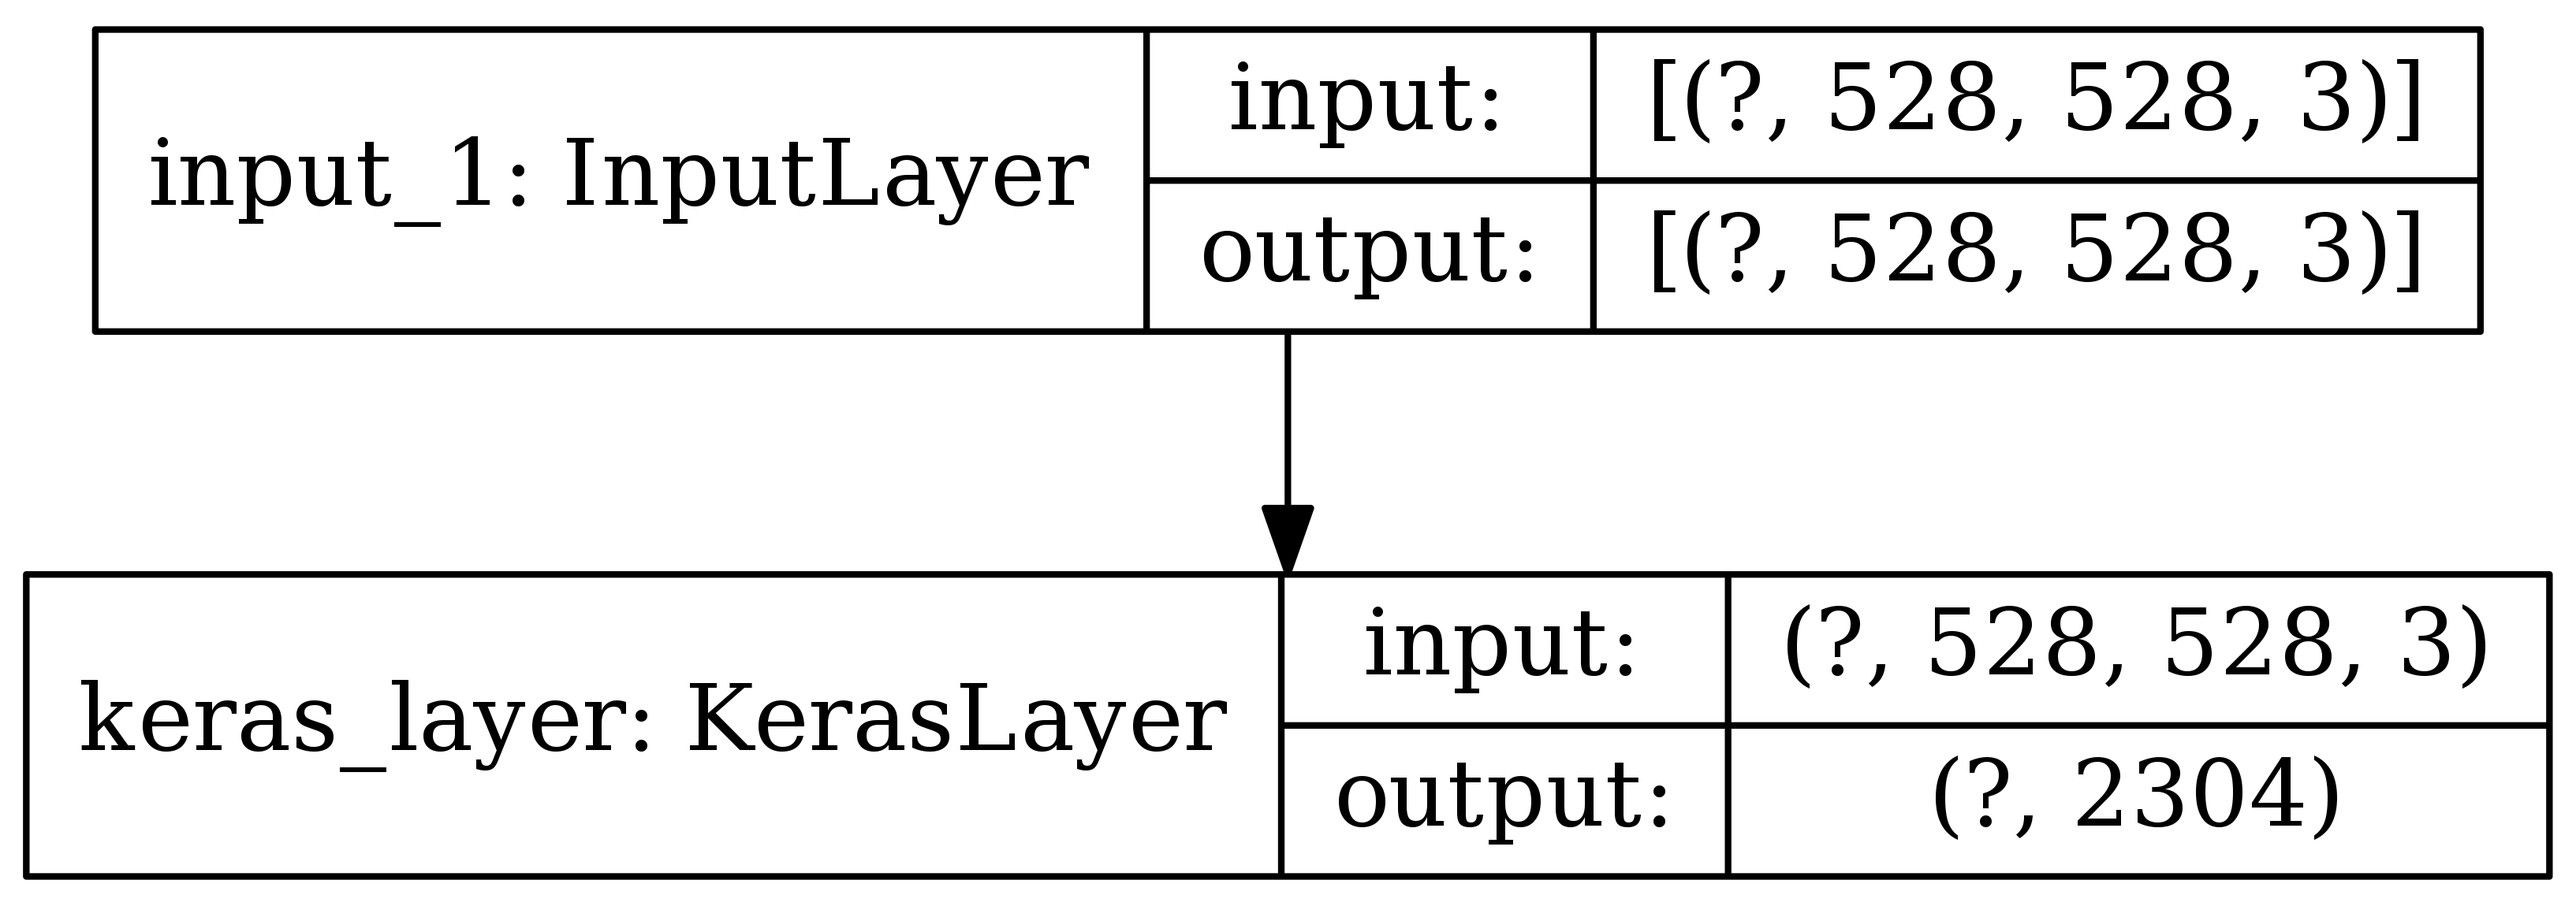
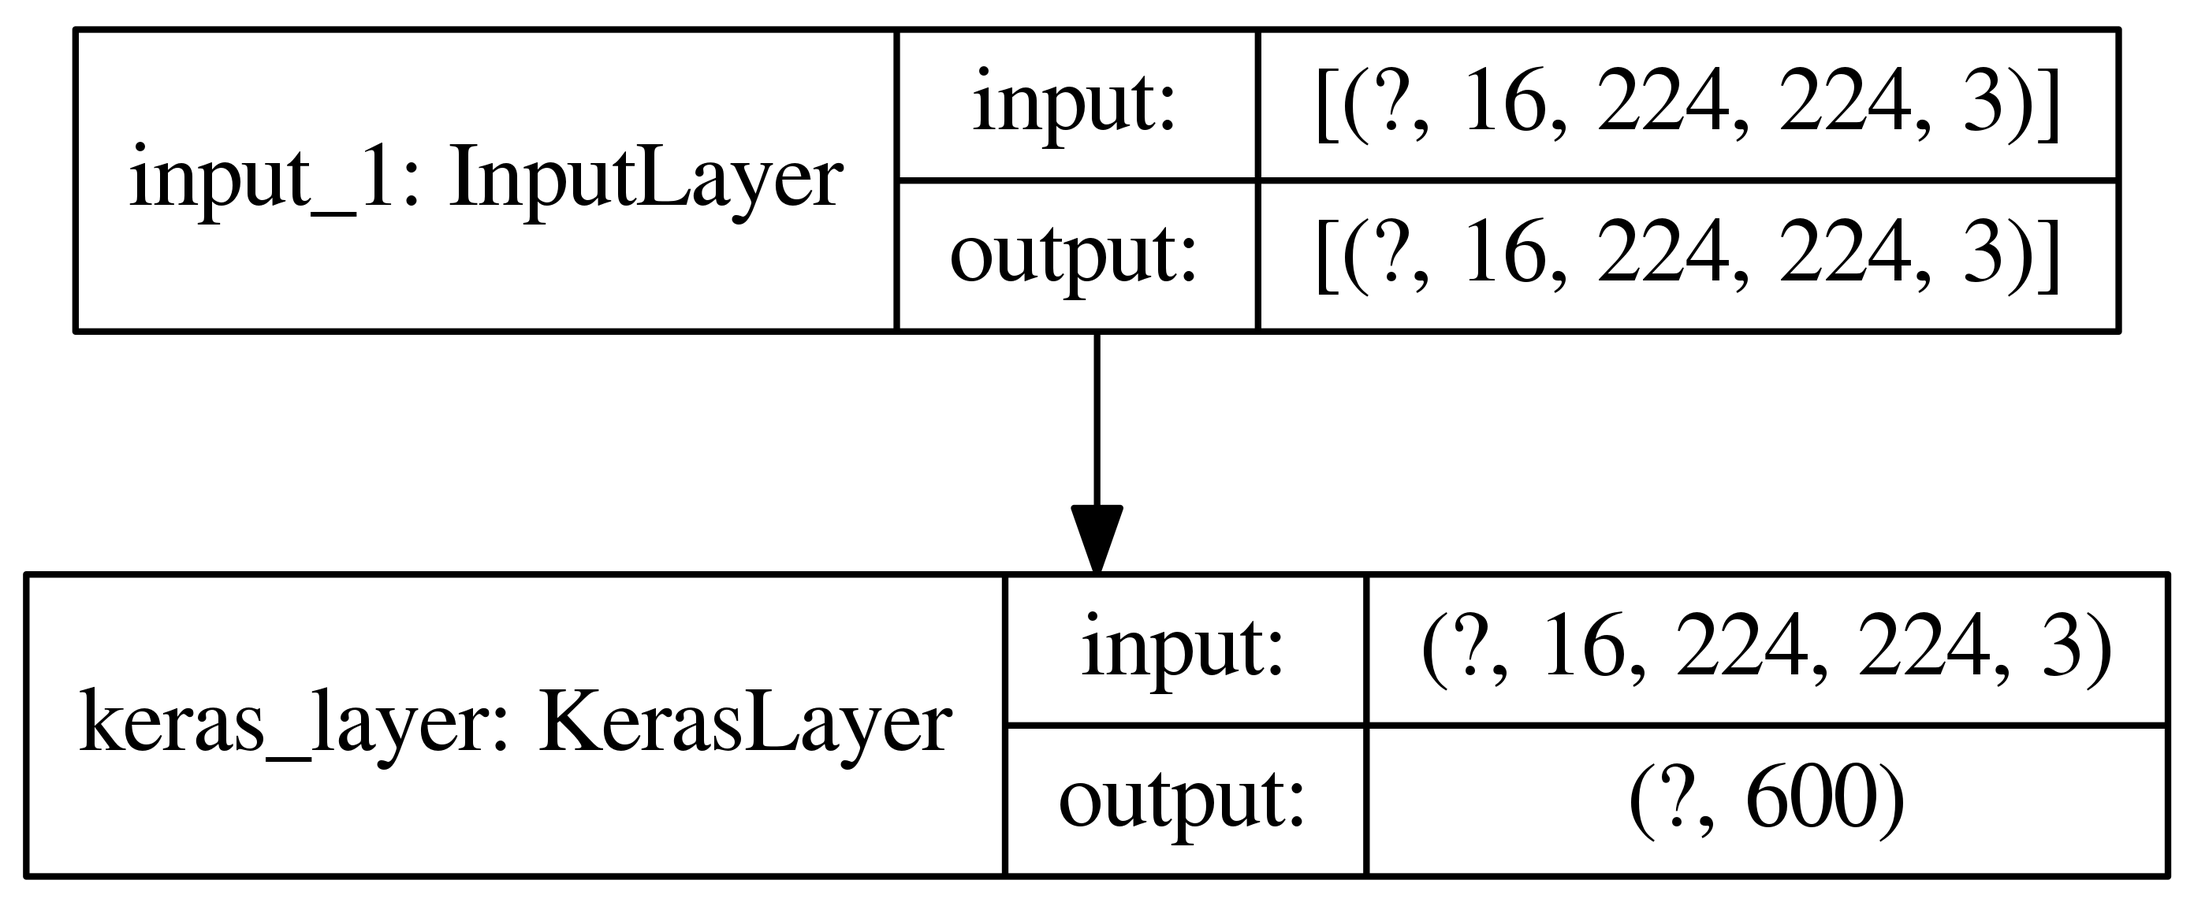
Small fixes

diff --git a/anomaly_detector/anomaly_model/anomalyModelSVG.py b/anomaly_detector/anomaly_model/anomalyModelSVG.py
@@ -5,7 +5,7 @@ import logging
 
 import numpy as np
 # import tensorflow_probability as tfp
-# from scipy.spatial import distance
+from scipy.spatial import distance
 
 from anomalyModelBase import AnomalyModelBase
 import common.utils as utils
@@ -34,9 +34,11 @@ class AnomalyModelSVG(AnomalyModelBase):
         
         # TODO: This is a hack for collapsed SVGs. Should normally not happen
         if not self._var.any(): # var contains only zeros
-            return (feature == self._mean).all()
+            return (feature.base == self._mean).all()
 
-        return np.sqrt(np.sum((feature - self._mean) **2 / self._var))
+        # res = np.sqrt(np.sum((feature.base - self._mean) **2 / self._var))
+        res2 = distance.mahalanobis(feature, self._mean, self._varI)
+        return res2
         
         ### scipy implementation is way slower
         # if self._varI is None:
@@ -55,6 +57,7 @@ class AnomalyModelSVG(AnomalyModelBase):
         # Get the variance
         # logging.info("Calculating the variance")
         self._var = features_flat.var()
+        self._varI = np.linalg.pinv(np.diag(self._var))
         # --> one variance per feature dimension
 
         # Get the mean
@@ -69,6 +72,7 @@ class AnomalyModelSVG(AnomalyModelBase):
         if not "var" in h5file.keys() or not "mean" in h5file.keys():
             return False
         self._var       = np.array(h5file["var"])
+        self._varI = np.linalg.pinv(np.diag(self._var))
         self._mean      = np.array(h5file["mean"])
         assert len(self._var) == len(self._mean), "Dimensions of variance and mean do not match!"
         return True

diff --git a/anomaly_detector/anomaly_model/anomalyModelBase.py b/anomaly_detector/anomaly_model/anomalyModelBase.py
@@ -54,7 +54,7 @@ class AnomalyModelBase(object):
     # Common functionality #
     ########################
     
-    def load_or_generate(self, features="/home/ludwig/ros/src/ROS-kate_bag/bags/FieldSAFE/TFRecord/Features/MobileNetV2_Block6.h5",
+    def load_or_generate(self, features="/home/ldwg/data/CCW/Features/C3D.h5",
                                load_features=False, load_mahalanobis_distances=False):
         """Load a model from file or generate it based on the features
         
@@ -181,7 +181,7 @@ class AnomalyModelBase(object):
             
             self.mahalanobis_no_anomaly_max = g["mahalanobis_no_anomaly"].attrs["max"]
             self.mahalanobis_anomaly_max    = g["mahalanobis_anomaly"].attrs["max"]
-            self.mahalanobis_max = max(self.mahalanobis_no_anomaly_max, self.mahalanobis_anomaly_max)
+            self.mahalanobis_max = np.nanmax((self.mahalanobis_no_anomaly_max, self.mahalanobis_anomaly_max))
 
             logging.info("Maximum Mahalanobis distance (no anomaly): %f" % self.mahalanobis_no_anomaly_max)
             logging.info("Maximum Mahalanobis distance (anomaly)   : %f" % self.mahalanobis_anomaly_max)

diff --git a/anomaly_detector/feature_extractor/featureExtractorEfficientNetB6.py b/anomaly_detector/feature_extractor/featureExtractorEfficientNetB6.py
@@ -19,6 +19,5 @@ class FeatureExtractorEfficientNetB6(FeatureExtractorBase):
 # Only for tests
 if __name__ == "__main__":
     extractor = FeatureExtractorEfficientNetB6()
-    # extractor.plot_model(extractor.model, 600)
-    extractor.extract_files("/home/ldwg/data/CCW/2020-02-06-17-11-37.tfrecord")
-    # extractor.extract_files("/home/ludwig/ros/src/ROS-kate_bag/bags/real/TFRecord/*.tfrecord")
+    extractor.plot_model(extractor.model, 600)
+    extractor.extract_files("/home/ldwg/data/CCW/2020-02-06-17-11-37.tfrecord", batch_size=16)

diff --git a/anomaly_detector/feature_extractor/featureExtractorMobileNetV2.py b/anomaly_detector/feature_extractor/featureExtractorMobileNetV2.py
@@ -37,5 +37,4 @@ class FeatureExtractorMobileNetV2(FeatureExtractorBase):
 if __name__ == "__main__":
     extractor = FeatureExtractorMobileNetV2()
     extractor.plot_model(extractor.model)
-    extractor.extract_files("/home/ludwig/ros/src/ROS-kate_bag/bags/FieldSAFE/TFRecord/2016-10-25-11-41-21_example.tfrecord")
-    # extractor.extract_files("/home/ludwig/ros/src/ROS-kate_bag/bags/real/TFRecord/*.tfrecord")
+    extractor.extract_files("/home/ldwg/data/CCW/2020-02-06-17-11-37.tfrecord")

diff --git a/anomaly_detector/common/utils.py b/anomaly_detector/common/utils.py
@@ -365,7 +365,7 @@ from psutil import virtual_memory
 def getComputerInfo():
 
     # Get CPU info
-    cpu = cpuinfo.get_cpu_info()
+    # cpu = cpuinfo.get_cpu_info()
 
     result_dict = {
         # "Python version": cpu["python_version"],
